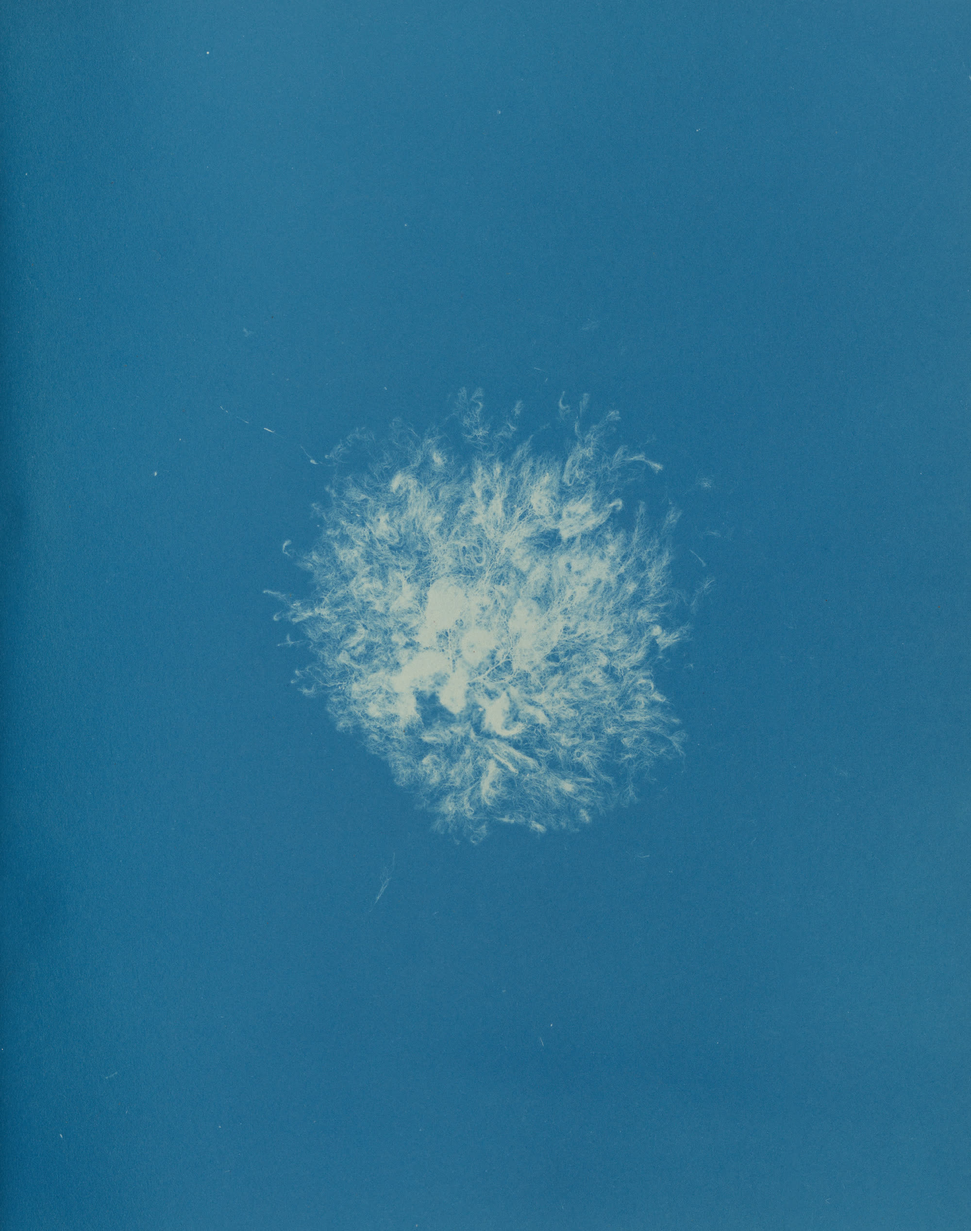
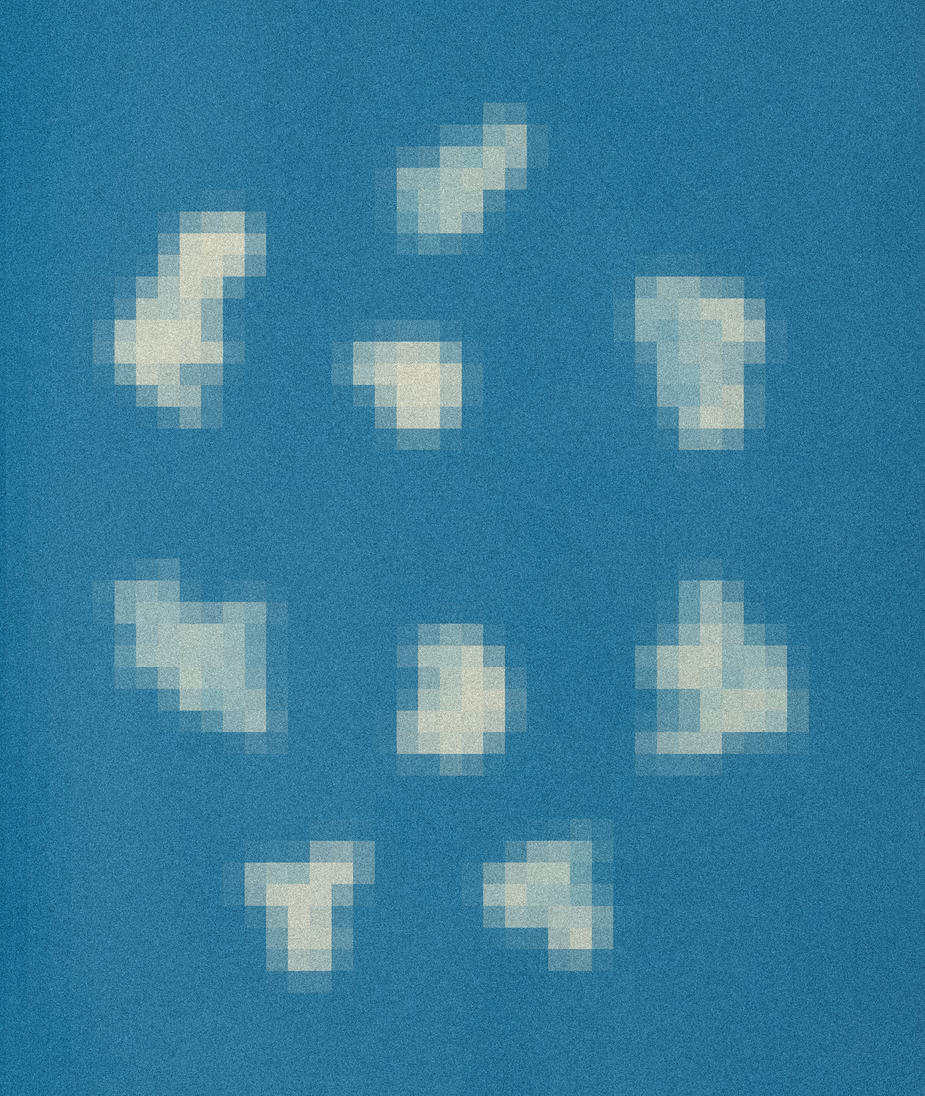
Intro: the hero picture is the pixelated cyanotype you supplied, at 85% over the blue

diff --git a/src/components/FirstTimeLanding.tsx b/src/components/FirstTimeLanding.tsx
@@ -576,7 +576,7 @@ export function FirstTimeLanding({
     <main className="flex-1">
       {/* ── Top band: about-page background + overlay chrome + centered wordmark ── */}
       <section className="relative flex min-h-[60svh] w-full flex-col justify-center bg-[var(--brand-blue)] text-[var(--brand-white)] md:block md:min-h-0">
-        {/* The cyanotype (Callithamnion roseum), slightly faded into the blue;
+        {/* The pixelated cyanotype hero, slightly faded into the blue;
             appears whole once decoded, never painting in strips. */}
         <div
           aria-hidden
